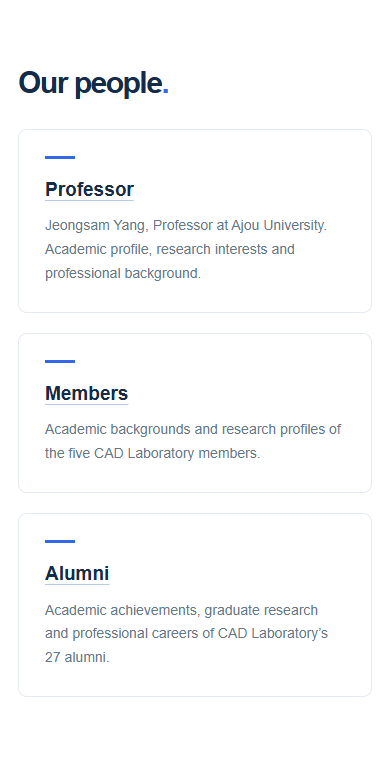
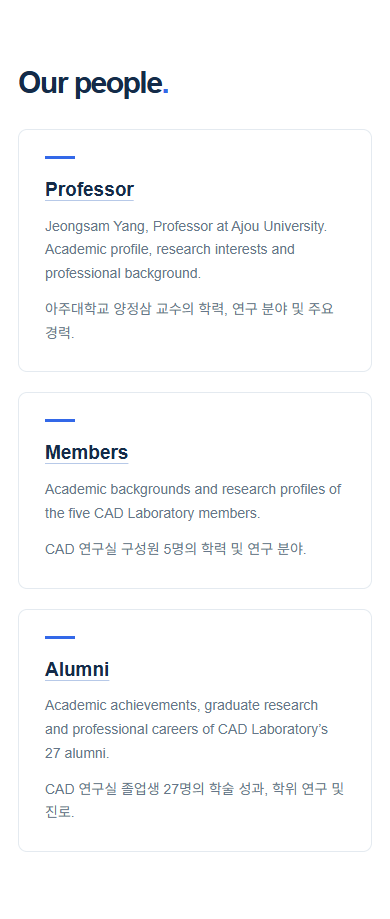
Add Korean descriptions to research and people cards

diff --git a/assets/content.js b/assets/content.js
@@ -6,14 +6,14 @@ window.CADLAB_CONTENT = {
 about: "The CAD (Computer-Aided Design) Laboratory is an integral unit of the Department of Industrial Engineering at Ajou University.",
 
   research: [
-    { title: "CAD / CAM", description: "Computer-aided design and manufacturing research." },
-    { title: "Intelligent Robotics", description: "Robotic systems, sensing and advanced automation." },
-    { title: "AR / VR", description: "Immersive visualization and engineering education." }
+    { title: "CAD / CAM", description: "Computer-aided design and manufacturing research.", descriptionKo: "컴퓨터 지원 설계 및 제조 연구." },
+    { title: "Intelligent Robotics", description: "Robotic systems, sensing and advanced automation.", descriptionKo: "로봇 시스템, 센싱 및 첨단 자동화 기술." },
+    { title: "AR / VR", description: "Immersive visualization and engineering education.", descriptionKo: "몰입형 시각화 및 공학 교육." }
   ],
   people: [
-    {title: "Professor", description: "Jeongsam Yang, Professor at Ajou University. Academic profile, research interests and professional background.", href: "people/professor.html"},
-    {title: "Members", description: "Academic backgrounds and research profiles of the five CAD Laboratory members.", href: "people/members.html"},
-    {title: "Alumni", description: "Academic achievements, graduate research and professional careers of CAD Laboratory’s 27 alumni.", href: "people/alumni.html"}
+    {title: "Professor", description: "Jeongsam Yang, Professor at Ajou University. Academic profile, research interests and professional background.", descriptionKo: "아주대학교 양정삼 교수의 학력, 연구 분야 및 주요 경력.", href: "people/professor.html"},
+    {title: "Members", description: "Academic backgrounds and research profiles of the five CAD Laboratory members.", descriptionKo: "CAD 연구실 구성원 5명의 학력 및 연구 분야.", href: "people/members.html"},
+    {title: "Alumni", description: "Academic achievements, graduate research and professional careers of CAD Laboratory’s 27 alumni.", descriptionKo: "CAD 연구실 졸업생 27명의 학술 성과, 학위 연구 및 진로.", href: "people/alumni.html"}
   ],
   publications: [
     {title: "International Journal Papers", detail: "Research papers published in international academic journals.", href: "publications/international.html"},

diff --git a/assets/styles.css b/assets/styles.css
@@ -56,6 +56,7 @@ h2{font-size:clamp(30px,3.8vw,46px);line-height:1.15;letter-spacing:-1.5px;color
 .card:before{content:"";display:block;width:30px;height:3px;background:var(--blue);margin-bottom:19px}
 .card h3{font-size:19px;line-height:1.3;color:var(--navy);margin:0 0 12px}
 .card p{font-size:14px;color:var(--muted);margin:0}
+.card .card-description-ko{margin-top:12px;word-break:keep-all;overflow-wrap:anywhere}
 .stack{display:grid;gap:12px}
 .entry{border:1px solid var(--line);border-left:3px solid var(--blue);background:#fff;border-radius:6px;padding:20px 24px;display:flex;justify-content:space-between;gap:20px}
 .entry strong{color:var(--navy)}

diff --git a/assets/site.js b/assets/site.js
@@ -15,6 +15,11 @@ const addCard = (id, items) => {
   (items || []).forEach(item => {
     const card = e('article', 'card');
     card.append(heading('h3', item), e('p', '', item.description || ''));
+    if (item.descriptionKo) {
+      const korean = e('p', 'card-description-ko', item.descriptionKo);
+      korean.lang = 'ko';
+      card.append(korean);
+    }
     root.append(card);
   });
 };

diff --git a/.github/review/hero/README.md b/.github/review/hero/README.md
@@ -85,3 +85,7 @@ The existing header Logo is already a homepage link on all 15 pages. Added real-
 ## Restored facilities image and About layout
 
 Added an AI-restored version of the supplied three-panel facilities photo (2120 × 742), exported as a high-quality JPEG. Restoration improves noise, sharpness and exposure while retaining the triptych composition; it is not a new documentary source. The original input remains on the user's Desktop. The group photo is capped at 480 px and the facilities image spans both columns below the introduction, with matching 8 px corners and 36 px row spacing (28 px on mobile). Both images retain their natural aspect ratios without cropping. Browser checks verify loading, proportions and no overlap at five widths. About section screenshots hide the sticky header only during capture to avoid overlay artifacts.
+
+## Bilingual Research and People cards
+
+Added Korean descriptions beneath the existing English in all three Research areas cards and three Our people cards. English, titles, links and records are preserved. Korean paragraphs use lang=ko with consistent 12 px spacing and Korean word wrapping. Five-width bilingual checks and existing regressions passed; Research/People screenshots refreshed.
